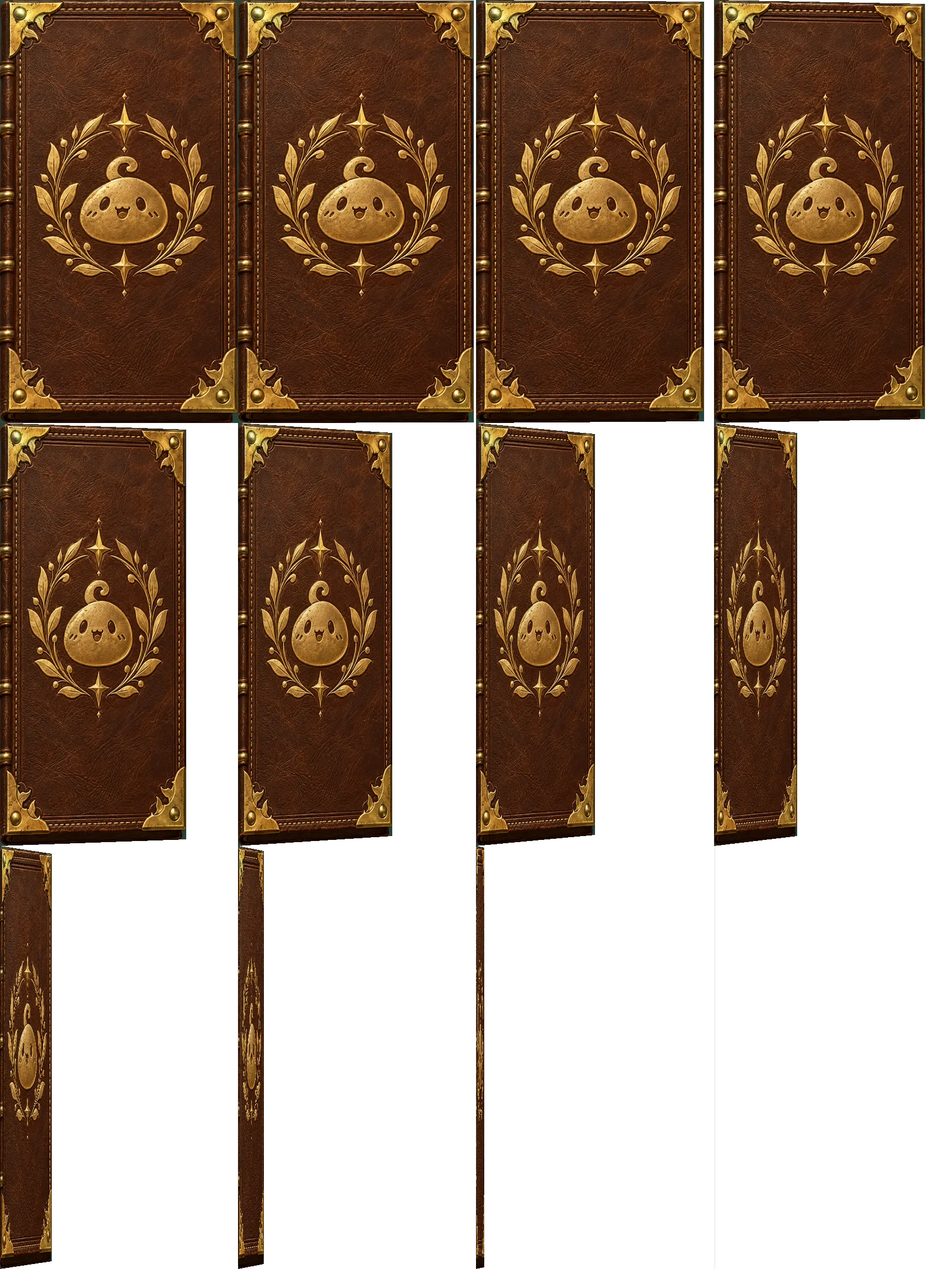
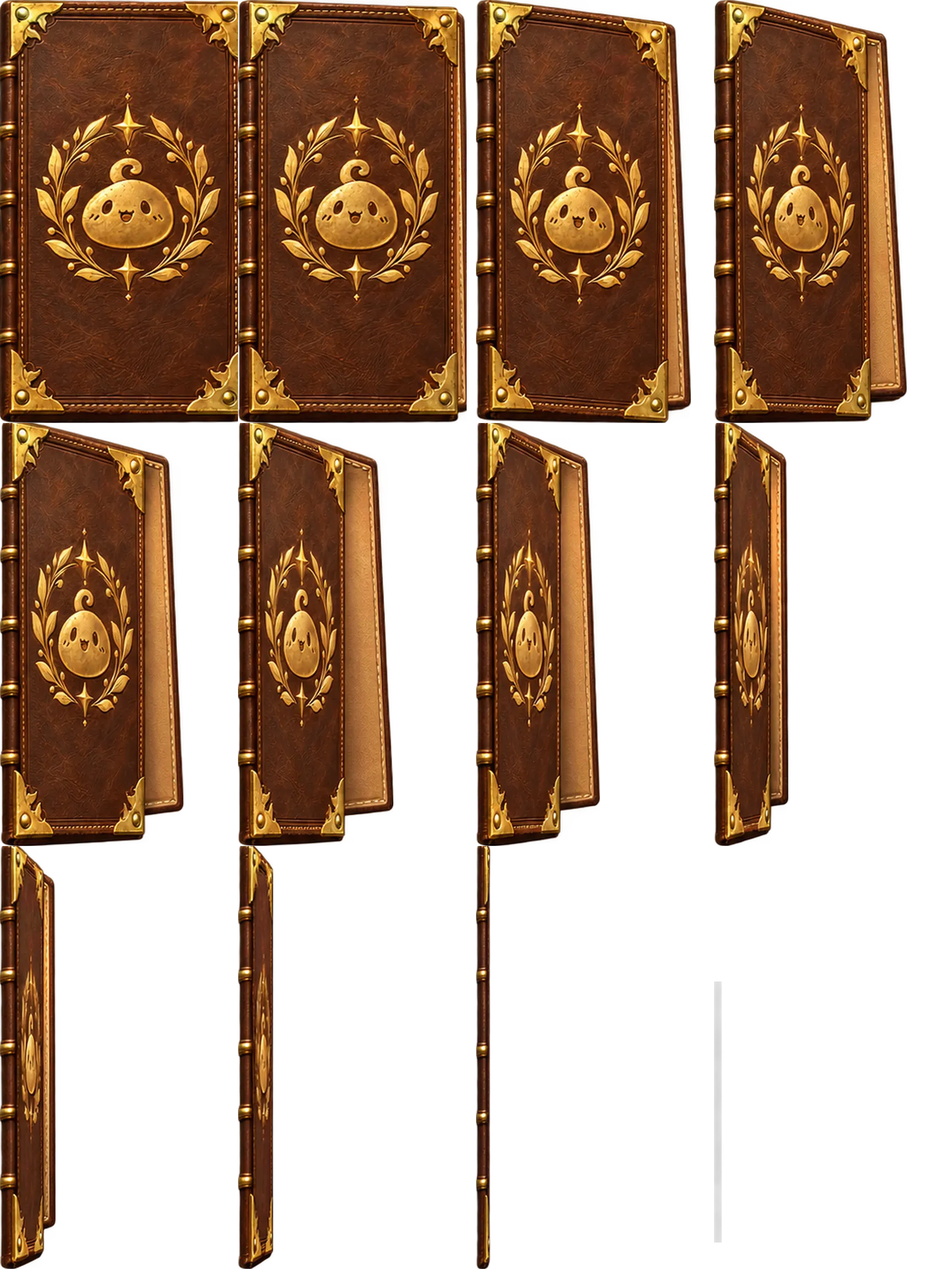
Replace book opening with owner-selected AI-painted frames

diff --git a/assets/incoming/book_opening_plus/DELIVERY_README.md b/assets/incoming/book_opening_plus/DELIVERY_README.md
@@ -4,21 +4,21 @@
 
 ## What is delivered
 
-- bk_open_long:1728×2304,4×3,432×768 perframe,12frames at100ms. First frame is pixel-identical to the original bk_cover_closed resized432×768. Fixed left hinge and monotonically shrinking visible width. Frame12 contains only a faint4px warm shadow.
+- bk_open_long:1728×2304,4×3,432×768 perframe,12frames at100ms. Revised per owner choice: all12 opening poses are AI-painted, then extracted and registered to a common height and left hinge. First frame is a painted visual match, not pixel-identical to the old cover. Frame12 contains only a faint painted shadow.
 - bk_clasp:1536×256,6frames. bk_emblem_spin and vfx_bk_magic:2048×256,8frames each. Clasp stays attached at the latch while its released strap falls; hide clasp overlay before cover rotates.
 - bk_page_riffle:1728×1536,4×2,432×768,8frames; final frame is exactly transparent.
 - vfx_bk_burst:3072×512,6frames. Bazaar, Upgrade and Mail icons:256×256 each.
 - Black VFX are actual opaque black, intended for ADD or the existing brightness-alpha packing pipeline. Transparent sheets retain native generated alpha and use NORMAL blend. Avoid double alpha conversion.
-- raw/ retains selected ImageGen sources. PROMPTS records exact prompts and the rejected full-opening attempt. Generated opening candidate changed ornament identity and shifted hinge, so final opening uses rigid perspective rendering from existing original cover pixels. OPENING_GEOMETRY records that method and donor hash. The light reverse leather appears only as a thin inner edge; this is a source-pixel presentation, not a newly modeled3D book.
+- raw/ retains selected ImageGen sources, including opening_ai_v2.png. PROMPTS records the exact revised prompt and explicit owner choice. OPENING_SOURCE.json records extraction/registration. The geometric opening and its renderer are superseded and retained only in history/; do not run the historical renderer over the active sheet.
 
 ## Clean cover and emblem
 
 The old gold emblem is baked into bk_cover_closed. Do not draw another complete gold emblem over it. Optional helper bk_cover_clean_plate.png removes the old emblem region while preserving original outer corners/spine/stitch pixels. HELPER_MANIFEST records size/placement. On a432×768 cover viewport, animated emblem center=(222,359), displayed size=(340,380). Scale these values with cover transform. The helper and animated emblem are shown in previews/cover_clean_emblem_comparison.png.
 
-Before rotating, briefly crossfade this assembled cover back to the original closed cover (suggest120ms), then begin bk_open_long at its exact matching frame0. This avoids replacing one gold silhouette with another abruptly. Previews are offline compositions against the retained order33 Lobby proof, not evidence of the latest deployed UI.
+Before rotating, briefly crossfade the assembled static cover directly into the newly AI-painted bk_open_long frame0 (suggest150ms), then play frames0–11. Its design is a painted match, not exact original pixels. Previews are offline compositions against the retained order33 Lobby proof, not evidence of the latest deployed UI.
 
 ## Packing budget and loading
 
-webp_candidates/ contains exact-size WebP candidates at q78: required9 total1,290,464bytes; including clean-cover helper1,363,314bytes (<1,500,000). Required sheet dimensions are unchanged. Candidate black VFX remain black and can use ADD; converting them to alpha requires rechecking packed size. PNG source sheets are authoring sources; never boot-load these. Load only with opening/menu groups and discard temporary overlay state after skip/finish/scene shutdown. Existing order28 fallback stays available.
+webp_candidates/ contains exact-size WebP candidates at q78: required9 total1,212,176bytes; including clean-cover helper1,285,026bytes (<1,500,000). Required sheet dimensions are unchanged. Candidate black VFX remain black and can use ADD; converting them to alpha requires rechecking packed size. PNG source sheets are authoring sources; never boot-load these. Load only with opening/menu groups and discard temporary overlay state after skip/finish/scene shutdown. Existing order28 fallback stays available.
 
-Native PNG decode/chunk CRC/hash/bytes/dimensions, alpha, grids, exact opening first frame, monotonic reveal widths, exact emblem loop endpoints and empty final riffle frame passed. Native28/56px light/dark icon gallery and12-frame opening composition reviewed. Owner phone animation cadence, touch-to-skip and FPS remain pending. No runtime wiring or GAME_VERSION change is included in this source delivery.
+Native PNG decode/chunk CRC/hash/bytes/dimensions, alpha, grids, registered opening hinge/height, exact emblem loop endpoints and empty final riffle frame passed. Native28/56px light/dark icon gallery and12-frame opening composition reviewed. Owner phone animation cadence, touch-to-skip and FPS remain pending. No runtime wiring or GAME_VERSION change is included in this source delivery.

diff --git a/docs/art_orders/README.md b/docs/art_orders/README.md
@@ -41,7 +41,7 @@
 | 20 | `20_HERO_VFX_GAPS.md` | Hero VFX รวม Cocoa landing dust | 21 ไฟล์ | — | 🟩 ต่อครบ v7.8.45–46; รอมือถือ |
 | 21 | `21_TEMPLE_WEAVE_UI.md` | ชิ้นส่วน UI หน้า Temple Weave + Flavor Passives (พื้นหลัง, การ์ด 9-slice, ปุ่ม, แถบ, ป้าย) ภาพอ้างอิงใน `ref/` | 34 | 🟠 | 🟩 ใส่เข้าเกมแล้ว v7.8.49 |
 | 38 | `38_TUTORIAL_UI.md` | บทสอน: ไอคอน 9 ขั้น + นิ้วชี้ + กรอบการ์ด + วงไฮไลต์/ฉลอง | 13 / 23 เฟรม | 🟢 | ✅ ส่งครบ · ผูกแล้ว v7.9.68 · รอ QA มือถือ |
-| 39 | `39_BOOK_OPENING_PLUS.md` | เปิดปก12เฟรม + ตัวล็อก/ตรา/เวท/กระดาษ/แสง + Bazaar/Upgrade/Mail | 9 / 51 เฟรม | 🟠 | ✅ ส่งครบ23ต.ค. · WebPรวมhelper1.36MB · รอผูก runtime / QA มือถือ |
+| 39 | `39_BOOK_OPENING_PLUS.md` | เปิดปก12เฟรม + ตัวล็อก/ตรา/เวท/กระดาษ/แสง + Bazaar/Upgrade/Mail | 9 / 51 เฟรม | 🟠 | ✅ ส่งครบ23ต.ค. · เปิดปกAIวาดใหม่ · WebPรวมhelper1.29MB · รอผูก runtime / QA มือถือ |
 | 36 | `36_RUBY_MASCOT.md` | มาสคอต Ruby ไกด์ในด่าน 5 หน้า (ปกติ/ดีใจ/เตือน/สงสัย/เชียร์) | 5 | 🟡 | โค้ดพร้อม v7.9.60 (ภาพชั่วคราว) · รออาร์ต |
 | 22 | `22_BOSS_ATTACK_VFX_C1_C2.md` | เอฟเฟกต์ท่าบอส C1–C2: ชุดกลางรายด่าน (วงเตือน/ระเบิด/คลื่น/เส้นเตือน) 10 ด่าน + ท่าเด่น 19 | 59 | 🟠 | 🟩 ต่อแล้ว v7.8.57 (รอ QA มือถือ) |
 | 23 | `23_LEVELUP_CARD_UI.md` | หน้าเลือกการ์ด/Level Up: ม่าน, ป้ายหัวเรื่อง, กรอบการ์ด 9-slice (ย้อมสีได้), กรอบเลือก, ริบบิ้นการ์ดพิเศษ, VFX เปิด/ยืนยัน | 19 | 🟠 | 🟩 ต่อแล้ว v7.8.59 (รอ QA มือถือ) |

diff --git a/docs/SESSION_HANDOFF.md b/docs/SESSION_HANDOFF.md
@@ -1,7 +1,5 @@
-# Latest checkpoint — art order39 Book opening plus
+# Latest checkpoint — art39 AI-painted opening revision
 
-23 October2026. All9 requested PNG32 /51frames delivered in assets/incoming/book_opening_plus/, plus a separate clean-cover helper. Exact prompts and selected ImageGen donors retained. Main opening uses existing-cover perspective rendering with exact frame0, fixed hinge and monotonic reveal; final riffle frame is empty and emblem endpoints match. Required WebP1,290,464bytes; with helper1,363,314bytes (<1.5MB).
+23 October2026. Owner explicitly selected AI-painted frames instead of geometric projection. Active bk_open_long now contains12 newly ImageGen-painted poses, extracted/registered to common height and left hinge, then packed. Native raw sheet and exact prompt retained. Prior geometry, renderer and verification are historical only in history/. All8 other requested assets unchanged.
 
-Source commit27f78496641ce7734e0debf612a1973e5a166f1c. All49 initial delivery/document files downloaded in full and byte-for-byte verified (34,138,040bytes). UPLOAD_VERIFICATION.json contains immutable-commit evidence. Following metadata corrects the donor path and records this checkpoint.
-
-Source-only; runtime v7.9.68 and its order38 integration untouched. Next: lazy bookOpening and navigation wiring per order39, including clean-cover transition and existing order28 fallbacks. Owner phone cadence/touch-to-skip/FPS review pending.
+Required WebP1,212,176bytes; with helper1,285,026bytes (<1.5MB). PNG/grid/hash/alpha checked; revised12-frame compositions reviewed. First frame is not pixel-identical to the original static cover; crossfade into painted frame0 for150ms before playing. Source-only; runtime v7.9.68 untouched. Ready to publish revision and perform immutable full-byte verification. Next: lazy runtime integration / owner phone cadence, skip and FPS review.

diff --git a/docs/art_orders/39_BOOK_OPENING_PLUS.md b/docs/art_orders/39_BOOK_OPENING_PLUS.md
@@ -1,3 +1,5 @@
+> 23 ต.ค. 2026 รอบแก้: เจ้าของเลือกให้ AI วาดเฟรมใหม่ · bk_open_long เปลี่ยนเป็น12เฟรมที่ AI วาด พร้อมจัดตำแหน่งสัน · ชุดคำนวณเดิมเก็บใน history/ · รอผูก runtime / QA มือถือ
+
 # 39 — เปิดหนังสือหลัง TAP TO START (ช้าลง ขยับมากขึ้น) + ไอคอนแถบล่าง · ใบสั่งงานอาร์ต
 
 สถานะ: ✅ ส่งอาร์ตครบ 9 PNG32 / 51 เฟรม (23 ต.ค. 2026) · รอผูก runtime / QA มือถือ · โค้ดเวอร์ชันแรกใช้อาร์ตใบ 28 แล้ว (v7.9.68 `bookOpening`)
@@ -42,7 +44,7 @@
 
 **รวม 9 ไฟล์ / 51 เฟรม**
 
-หมายเหตุส่งมอบ: ยอดเดิม54คลาดเคลื่อน; ตารางรวม51เฟรม มี clean-cover helper เพิ่มแยกเพื่อไม่ให้ตราซ้อนกับของเดิม ดู assets/incoming/book_opening_plus/DELIVERY_README.md · WebP รวม helper1,363,314bytes ผ่านงบ1.5MB
+หมายเหตุส่งมอบ: ยอดเดิม54คลาดเคลื่อน; ตารางรวม51เฟรม มี clean-cover helper เพิ่มแยกเพื่อไม่ให้ตราซ้อนกับของเดิม ดู assets/incoming/book_opening_plus/DELIVERY_README.md · WebP รวม helper1,285,026bytes ผ่านงบ1.5MB
 
 ## ข้อห้าม
 - ไม่มีตัวหนังสือ/ตัวเลข

diff --git a/CLAUDE.md b/CLAUDE.md
@@ -1,3 +1,7 @@
+# Art39 opening revision — explicit owner choice: AI-painted frames
+
+Active bk_open_long now uses12 AI-painted poses, mechanically extracted/registered to fixed left hinge and height. Geometric opening/renderer retired to history/. PROMPTS and OPENING_SOURCE record actual provenance; no exact original-pixel match is claimed. Required WebP1,212,176bytes; with clean-cover helper1,285,026bytes. Crossfade static cover into painted frame0 before playing. Source-only; v7.9.68 runtime untouched.
+
 # Art delivery39 — Book opening plus source kit
 
 All9 PNG32 /51 frames delivered to assets/incoming/book_opening_plus/ with selected ImageGen donors, exact prompts, source-pixel12-frame opening, clean-cover helper, manifest/CRC/hash/alpha QA and offline previews. Exact-size WebP candidates total1,290,464bytes; including clean-cover helper1,363,314bytes under1.5MB. Source-only; preserve runtime v7.9.68 and its order38 integration. Next: lazy bookOpening / navigation wiring per order39 and phone playback/skip/FPS review.
